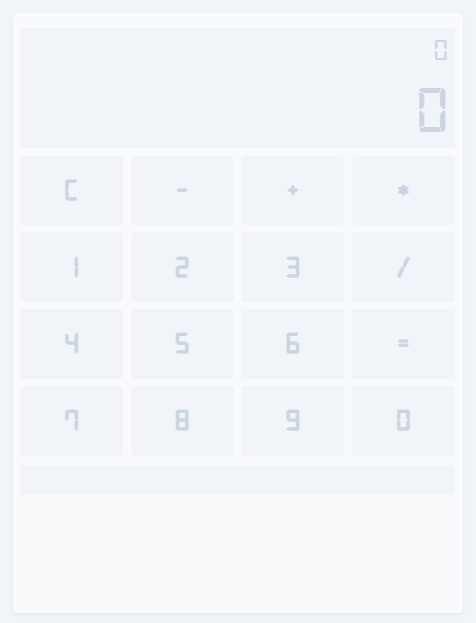
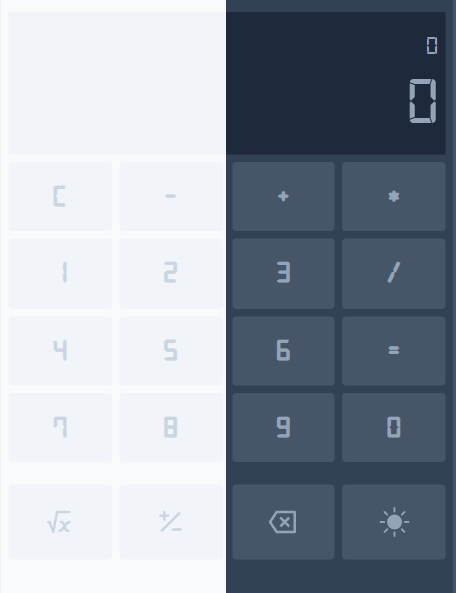
fix: dark mode switching problem resolved

diff --git a/src/components/ui/frame/frame.jsx b/src/components/ui/frame/frame.jsx
@@ -1,6 +1,6 @@
 import React from 'react'
 import './styles/frame.scss'
-import { NumericButton, ActionButton, Display, ButtonBase } from '@ui'
+import { NumericButton, ActionButton, Display, ThemeButton } from '@ui'
 import {  CLR, SUB, ADD, DIV, MUL, EQM, SQRT, CHANGE_SIGN, BACKSPACE } from '@api'
 import { TbSquareRoot2, TbPlusMinus } from 'react-icons/tb'
 import { RiDeleteBack2Line } from 'react-icons/ri'
@@ -8,13 +8,13 @@ import { RiDeleteBack2Line } from 'react-icons/ri'
 export const Frame = ({ className = '', display, left, right, footer, ...rest }) => {
 
   return (
-    <section {...rest} className={ `frame transition-[scale] md:scale-125 lg:scale-150 shadow-sm gap-1 ${className}` }>
+    <section {...rest} className={ `frame md:scale-125 dark:bg-slate-700 lg:scale-150 shadow-sm gap-1 transition-colors ${className}` }>
         
-        <header className="header inline-flex flex-col w-full px-1 justify-end items-end font_calc bg-slate-100 hover:text-slate-500 transition-colors">
+        <header className="header inline-flex flex-col w-full px-1 justify-end items-end font_calc text-slate-400 bg-slate-100 dark:bg-slate-800 dark:hover:bg-slate-500 hover:text-slate-900 transition-colors ">
             <Display />
         </header>
 
-        <main className="main flex gap-1 py-1">
+        <main className="main flex gap-1 py-1 ">
 
             <div className="left relative rounded-lg h-40 grid gap-1 grid-cols-3 grid-rows-4 grow-[3]">
                 
@@ -41,7 +41,8 @@ export const Frame = ({ className = '', display, left, right, footer, ...rest })
                 <ActionButton action={{ type: SQRT }}><TbSquareRoot2 /></ActionButton>
                 <ActionButton action={{ type: CHANGE_SIGN }}><TbPlusMinus /></ActionButton>
                 <ActionButton action={{ type: BACKSPACE }}><RiDeleteBack2Line /></ActionButton>
-                <ActionButton action={{ type: "" }}>-</ActionButton>
+                <ThemeButton />
+                
             {footer}
 
         </footer>

diff --git a/src/context/calc.context.jsx b/src/context/calc.context.jsx
@@ -1,5 +1,5 @@
-import React from 'react'
-import { APPEND_NUM, CLR, ADD, DIV, SUB, MUL, EQM, SQRT, CHANGE_SIGN, BACKSPACE } from '@api'
+import React, { useEffect } from 'react'
+import { APPEND_NUM, CLR, ADD, DIV, SUB, MUL, EQM, SQRT, CHANGE_SIGN, BACKSPACE, USER_THEME, USER_THEME_LIGHT, USER_THEME_DARK } from '@api'
 import { addAction, divAction, subAction, mulAction, eqmAction, sqrtAction, changeSign, backspace } from './actions'
 import { toNumber, normalize, operations } from '@api'
 
@@ -10,6 +10,29 @@ export const CalcContext = React.createContext(null)
 const reducer = (state, { type, payload }) => {
 
     switch (type) {
+
+        case USER_THEME: {
+           
+          const current_theme = state.theme;
+
+           if(current_theme == USER_THEME_LIGHT && payload == USER_THEME_DARK) {
+
+              localStorage.setItem(USER_THEME, USER_THEME_DARK)
+
+              return {
+                  ...state,
+                  theme: USER_THEME_DARK
+              }
+           }
+
+            localStorage.setItem(USER_THEME, USER_THEME_LIGHT)
+            
+              return {
+                ...state,
+                theme: USER_THEME_LIGHT
+              }
+
+        }
 
         case APPEND_NUM: {
 
@@ -69,10 +92,7 @@ const reducer = (state, { type, payload }) => {
 
 export const CalcProvider = ({ children }) => {
   
-
-  const [state, dispatch] = React.useReducer(reducer, { expression: 0, memory: 0, operation: false })
-
-
+  const [state, dispatch] = React.useReducer(reducer, { expression: 0, memory: 0, operation: false, theme: localStorage.getItem(USER_THEME) || USER_THEME_LIGHT  })
 
   return (
     <CalcContext.Provider value={{ state, dispatch }}>

diff --git a/src/App.jsx b/src/App.jsx
@@ -1,11 +1,14 @@
-import React from 'react'
+import React, { useContext } from 'react'
 import { Frame, NumericButton} from '@ui'
-
+import { CalcContext } from '@context'
 
 export const App = () => {
 
+  const { state: { theme } } = useContext(CalcContext)
+
   return (
-    <div className="calc__app font_calc flex justify-center items-center bg-slate-100 w-full h-[100vh] text-slate-300">
+    <div className={`${theme}`}>
+    <div className={`calc__app font_calc flex justify-center items-center h-screen bg-slate-100 dark:bg-slate-600`}>
         
         <Frame left={
           <React.Fragment>
@@ -21,6 +24,7 @@ export const App = () => {
           </React.Fragment>
         } />
 
+    </div>
     </div>
   )
 }

diff --git a/src/components/ui/buttons/button-base.jsx b/src/components/ui/buttons/button-base.jsx
@@ -2,7 +2,7 @@ import React from 'react'
 
 export const ButtonBase = ({ children, className = '', ...rest }) => {
   return (
-    <button type='button' className={`font_calc font-bold inline-flex rounded-sm justify-center items-center transition-colors bg-slate-100 hover:bg-slate-300 hover:text-slate-500 ${ className && className }`} {...rest}>{ children }</button>
+    <button type='button' className={`font_calc font-bold inline-flex rounded-sm justify-center items-center transition-colors text-slate-300 dark:hover:bg-slate-800 dark:hover:text-slate-100 dark:bg-slate-600 dark:text-slate-400 bg-slate-100 hover:bg-slate-300 hover:text-slate-500 ${ className && className }`} {...rest}>{ children }</button>
   )
 }
 

diff --git a/src/components/ui/buttons/theme.button.jsx b/src/components/ui/buttons/theme.button.jsx
@@ -1,0 +1,21 @@
+import React, { useContext } from 'react'
+import { CalcContext } from '@context'
+import { ButtonBase } from '@ui'
+import { MdNightsStay } from 'react-icons/md'
+import { BsFillSunFill } from 'react-icons/bs'
+
+import { USER_THEME } from '@api'
+
+export const ThemeButton = ({ children, ...rest }) => {
+
+  const { state: { theme }, dispatch } = useContext(CalcContext)
+
+  
+
+  return (<ButtonBase className={`py-3`} {...rest} onClick={ () => dispatch({ type: USER_THEME, payload: (theme === 'dark' ? 'light': 'dark') }) } {...rest}>
+        { theme == 'light' && <MdNightsStay /> }
+        { theme == 'dark' && <BsFillSunFill /> }
+    </ButtonBase>)
+}
+
+export default ThemeButton

diff --git a/src/api/constants.js b/src/api/constants.js
@@ -16,6 +16,10 @@ export const RMC = 'REMOVE_CHAR'
 export const APPEND_NUM = 'APPEND_NUM'
 export const BACKSPACE = 'BACKSPACE'
 
+export const USER_THEME         = "USER_THEME"
+export const USER_THEME_LIGHT   = "light"
+export const USER_THEME_DARK    = "dark"
+
 export const toNumber = function (pattern) {
 
     pattern = pattern.toString();

diff --git a/src/components/ui/buttons/index.js b/src/components/ui/buttons/index.js
@@ -1,3 +1,4 @@
 export * from './numeric-button'
 export * from './action-button'
 export * from './button-base'
+export * from './theme.button'
